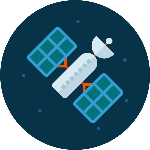
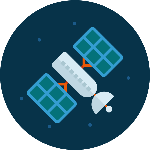
added satellite4 and  v vector addition

diff --git a/SatelliteSimulation/model/model.py b/SatelliteSimulation/model/model.py
@@ -21,7 +21,7 @@ import time
 #  SECTION: Global definitions
 # =========================================================================== #
 ABSOLUTE_PATH = os.path.abspath(os.path.dirname(__file__))
-SATELLITE_TYPE_AMOUNT = 3
+SATELLITE_TYPE_AMOUNT = 4
 
 
 # =========================================================================== #
@@ -38,7 +38,7 @@ class Satellite:
         self.dangerZoneShift: int = 20
         self.x = x
         self.y = y
-        self.malfunction_duration = 0
+        self.disturbance_duration = 0
         self.velocity_x = 0
         self.velocity_y = 0
         self.weight = weight
@@ -98,6 +98,14 @@ class SatelliteC(Satellite):
                         size=size)
 
 
+class SatelliteD(Satellite):
+    def __init__(self, x: int, y: int, size: int):
+        super().__init__(x,
+                        y,
+                        weight=40,
+                        size=size)
+
+
 class Space:
     # ----------------------------------------------------------------------- #
     #  SUBSECTION: Constructor
@@ -153,9 +161,9 @@ class Space:
     def move_influenced_satellites(self)->bool:
         """
         If a satellite is disturbed by an external force
-        or malfunctioning the duration of the forced movement
-        is greater 0 and its updating its position. At the
-        same time the duration is counted down. 
+        or is malfunctioning and the duration of the forced 
+        movement is greater 0 and its updating its position. 
+        At the same time the duration is counted down. 
         If the satellite crossed a outer border it has to move
         one step backwards and to set the duration to zero.
 
@@ -167,23 +175,25 @@ class Space:
         has_moved = False
         temp_bool = False
         for satellite in self.satellites:
-            if satellite.malfunction_duration > 0:
+            if satellite.disturbance_duration > 0:
                 satellite.x += satellite.velocity_x
                 satellite.y += satellite.velocity_y
-                satellite.malfunction_duration -= 1
+                satellite.disturbance_duration -= 1
                 has_moved = True
                 crahed_satellites = self.__check_crash_occurence(satellite)
                 if crahed_satellites:
                     #TODO add conservation of momentum: p_ges = const = p1 + ... + pn = m1*v1+...+mn*vn
                     satellite.x -= satellite.velocity_x
                     satellite.y -= satellite.velocity_y
-                    satellite.malfunction_duration = 0
+                    satellite.disturbance_duration = 0
                 if not self.__inside_border(satellite, self.border_padding):
                     satellite.x -= satellite.velocity_x
                     satellite.y -= satellite.velocity_y
-                    satellite.malfunction_duration = 0
+                    satellite.disturbance_duration = 0
                     if not temp_bool:
                         has_moved = False
+            if satellite.disturbance_duration == 0:
+                satellite.velocity_x = satellite.velocity_y = 0
             temp_bool = has_moved
         return has_moved
                 
@@ -213,7 +223,7 @@ class Space:
             satellite.size *= scale_factor
             satellite.x *= scale_factor
             satellite.y *= scale_factor
-            if satellite.malfunction_duration > 0:
+            if satellite.disturbance_duration > 0:
                 satellite.velocity_x *= scale_factor
                 satellite.velocity_y *= scale_factor
 
@@ -269,6 +279,8 @@ class Space:
             return SatelliteB(position_x, position_y, math.ceil(default_size * 0.8))
         if satellite_type == 3:
             return SatelliteC(position_x, position_y, math.ceil(default_size * 1.2))
+        if satellite_type == 4:
+            return SatelliteD(position_x, position_y, math.ceil(default_size * 0.5))
 
 
     def __no_overlapp(self, new_satellite: Satellite, satellites: list) -> bool:
@@ -304,34 +316,37 @@ class Space:
         try:
             malfunction = Disturbance()
             satellite = random.choice([satellite for satellite in self.satellites if not satellite.isCrashed])
-            satellite.malfunction_duration = malfunction.duration
-            satellite.velocity_x = malfunction.velocity_x * self.scale_factor
-            satellite.velocity_y = malfunction.velocity_y * self.scale_factor
+            if satellite.disturbance_duration < malfunction.duration:
+                satellite.disturbance_duration = malfunction.duration 
+            satellite.velocity_x += malfunction.velocity_x * self.scale_factor
+            satellite.velocity_y += malfunction.velocity_y * self.scale_factor
         except IndexError:
             #TODO everything is crashed, game over (maybe game over screen :p)
             pass
     
+    
     def __create_gavity_disturbance(self):
         gravityDisturbance = Disturbance(120)
         for satellite in self.satellites:
-            satellite.malfunction_duration = gravityDisturbance.duration
-            print(satellite.malfunction_duration)
-            satellite.velocity_x = 0
+            satellite.disturbance_duration = gravityDisturbance.duration
+            print(satellite.disturbance_duration)
             satellite.velocity_y = gravityDisturbance.change_gravity(satellite.weight)
+            
             
     def __create_radiation_disturbance(self):
         ref = self.border_height // 10 * 1.2
         radiation = Disturbance(ref**2)
         for satellite in self.satellites:
-            satellite.malfunction_duration = radiation.duration
+            satellite.disturbance_duration = radiation.duration
             satellite.velocity_x = radiation.velocity_x * radiation.add_radiation_pressure(
                 satellite.surface)
             satellite.velocity_y = radiation.velocity_y * radiation.add_radiation_pressure(
                 satellite.surface)
 
+
 class Disturbance:
 
-    def __init__(self, reference_value):
+    def __init__(self, reference_value:float=0):
         # duration in frames
         self.duration = random.randrange(60, 120, 1)
 
@@ -341,16 +356,21 @@ class Disturbance:
         
         self.reference_value = reference_value
         
+        self.binary_direction = random.uniform(-1, 1)
+        
     def change_gravity(self, mass:int)->float:
         # LAW: F_G = G * (M*m)/r^2, M>m
         # with G, m = const and r~const (because shift is to little)
         # => F_G = const * M
+        # heavier objects should be more influenced by the force
         #TODO check if r is making a big difference
-        return self.velocity_y*(self.reference_value/mass)
+        return (mass/self.reference_value) * self.binary_direction
+        
         
     def add_radiation_pressure(self, surface: int) -> float:
         # Radiation pressure from the sun
         return (self.reference_value/surface)
+    
     
     def add_magnetic_disturbance(self, surface: int) -> float:
         # change in the magnetic force 

diff --git a/SatelliteSimulation/view/view.py b/SatelliteSimulation/view/view.py
@@ -17,7 +17,7 @@ import os
 
 from SatelliteSimulation.view.disturbance_buttons import DisturbanceButtons
 from SatelliteSimulation.view.earth import Earth
-from SatelliteSimulation.model.model import Satellite, SatelliteA, SatelliteB, SatelliteC
+from SatelliteSimulation.model.model import Satellite, SatelliteA, SatelliteB, SatelliteC, SatelliteD
 
 # =========================================================================== #
 #  SECTION: Global definitions
@@ -35,6 +35,7 @@ BACKGROUND_IMG = pygame.image.load(os.path.join(ABSOLUTE_PATH, "Assets", "galaxy
 SATELLITE_1 = pygame.image.load(os.path.join(ABSOLUTE_PATH, "Assets", "satellite1.png"))
 SATELLITE_2 = pygame.image.load(os.path.join(ABSOLUTE_PATH, "Assets", "satellite2.png"))
 SATELLITE_3 = pygame.image.load(os.path.join(ABSOLUTE_PATH, "Assets", "satellite3.png"))
+SATELLITE_4 = pygame.image.load(os.path.join(ABSOLUTE_PATH, "Assets", "satellite4.png"))
 
 SATELLITE_1_CRASHED = pygame.image.load(os.path.join(
     ABSOLUTE_PATH, "Assets", "satellite1_crashed.png"))
@@ -42,6 +43,8 @@ SATELLITE_2_CRASHED = pygame.image.load(os.path.join(
     ABSOLUTE_PATH, "Assets", "satellite2_crashed.png"))
 SATELLITE_3_CRASHED = pygame.image.load(os.path.join(
     ABSOLUTE_PATH, "Assets", "satellite3_crashed.png"))
+SATELLITE_4_CRASHED = pygame.image.load(os.path.join(
+    ABSOLUTE_PATH, "Assets", "satellite4_crashed.png"))
 
 
 # =========================================================================== #
@@ -70,9 +73,11 @@ class GUI:
         SATELLITE_1.convert()
         SATELLITE_2.convert()
         SATELLITE_3.convert()
+        SATELLITE_4.convert()
         SATELLITE_1_CRASHED.convert()
         SATELLITE_2_CRASHED.convert()
         SATELLITE_3_CRASHED.convert()
+        SATELLITE_4_CRASHED.convert()
 
         self.__controller = controller
 
@@ -234,6 +239,11 @@ class GUI:
                 satellite_img = SATELLITE_3_CRASHED
             else:
                 satellite_img = SATELLITE_3
+        elif isinstance(satellite, SatelliteD):
+            if satellite.isCrashed:
+                satellite_img = SATELLITE_4_CRASHED
+            else:
+                satellite_img = SATELLITE_4
         satellite_img = pygame.transform.scale(satellite_img, (satellite.size, satellite.size))
         self.__surface.blit(satellite_img, (satellite.x, satellite.y))
 

diff --git a/SatelliteSimulation/controller/controller.py b/SatelliteSimulation/controller/controller.py
@@ -35,7 +35,7 @@ class Controller:
         self.gui = GUI(controller=self, width=1920, height=1080)
         border_parameters = self.gui.get_satellite_border()
 
-        self.space = Space(satelliteAmount=random.randint(9, 10),
+        self.space = Space(satelliteAmount=random.randint(2, 15),
                         border_corner_x=border_parameters[0],
                         border_corner_y=border_parameters[1],
                         border_width=border_parameters[2],
